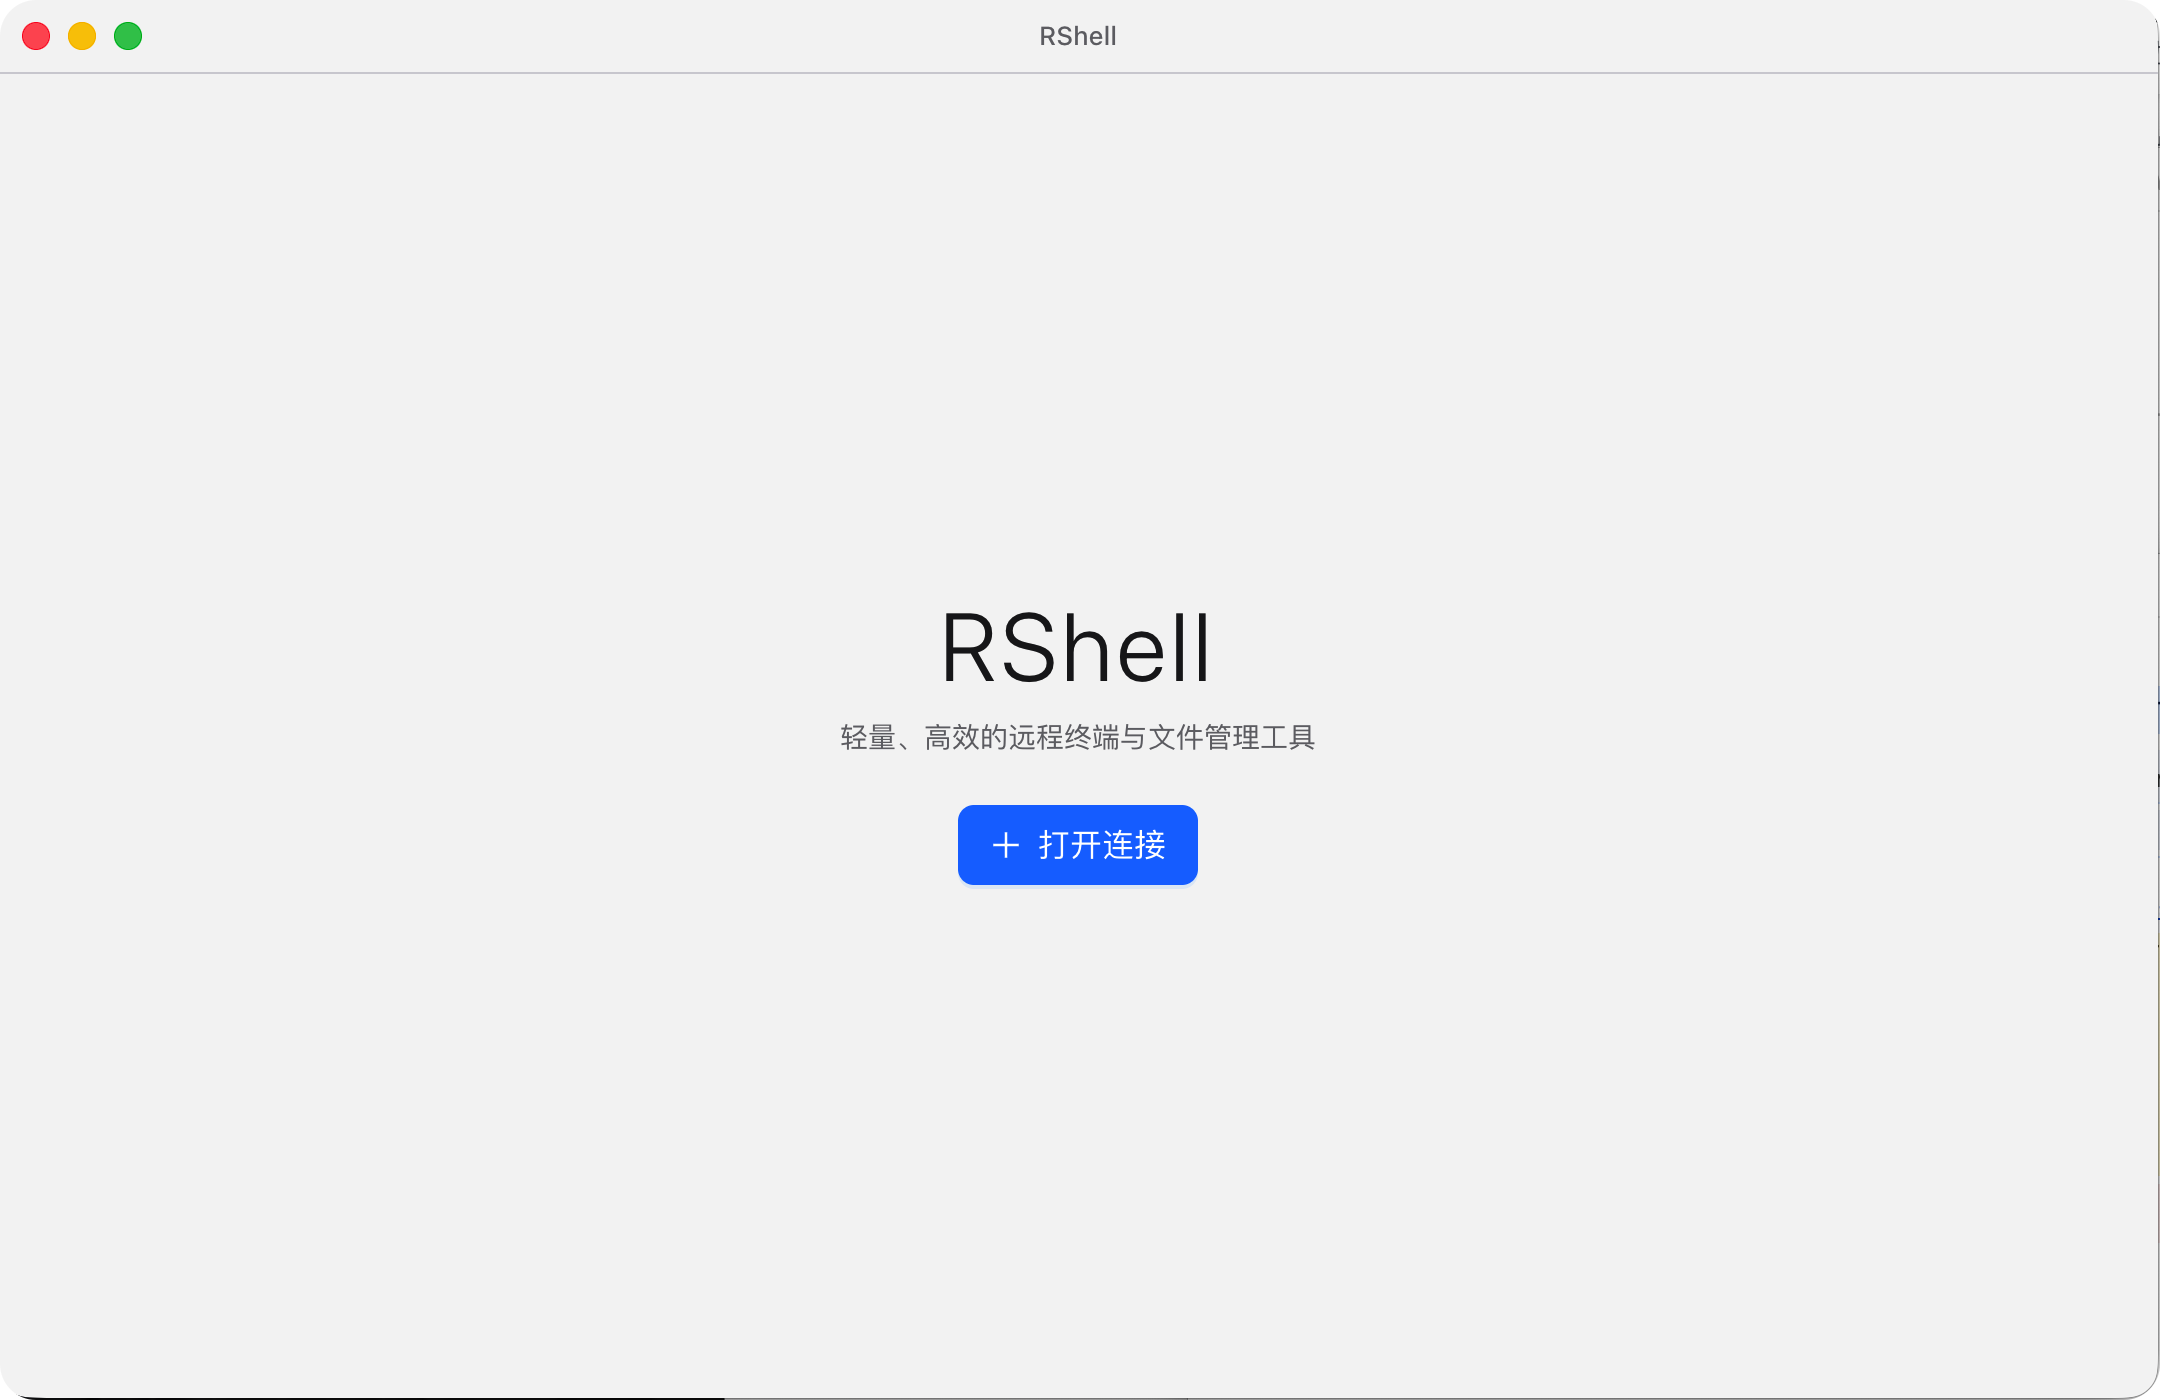
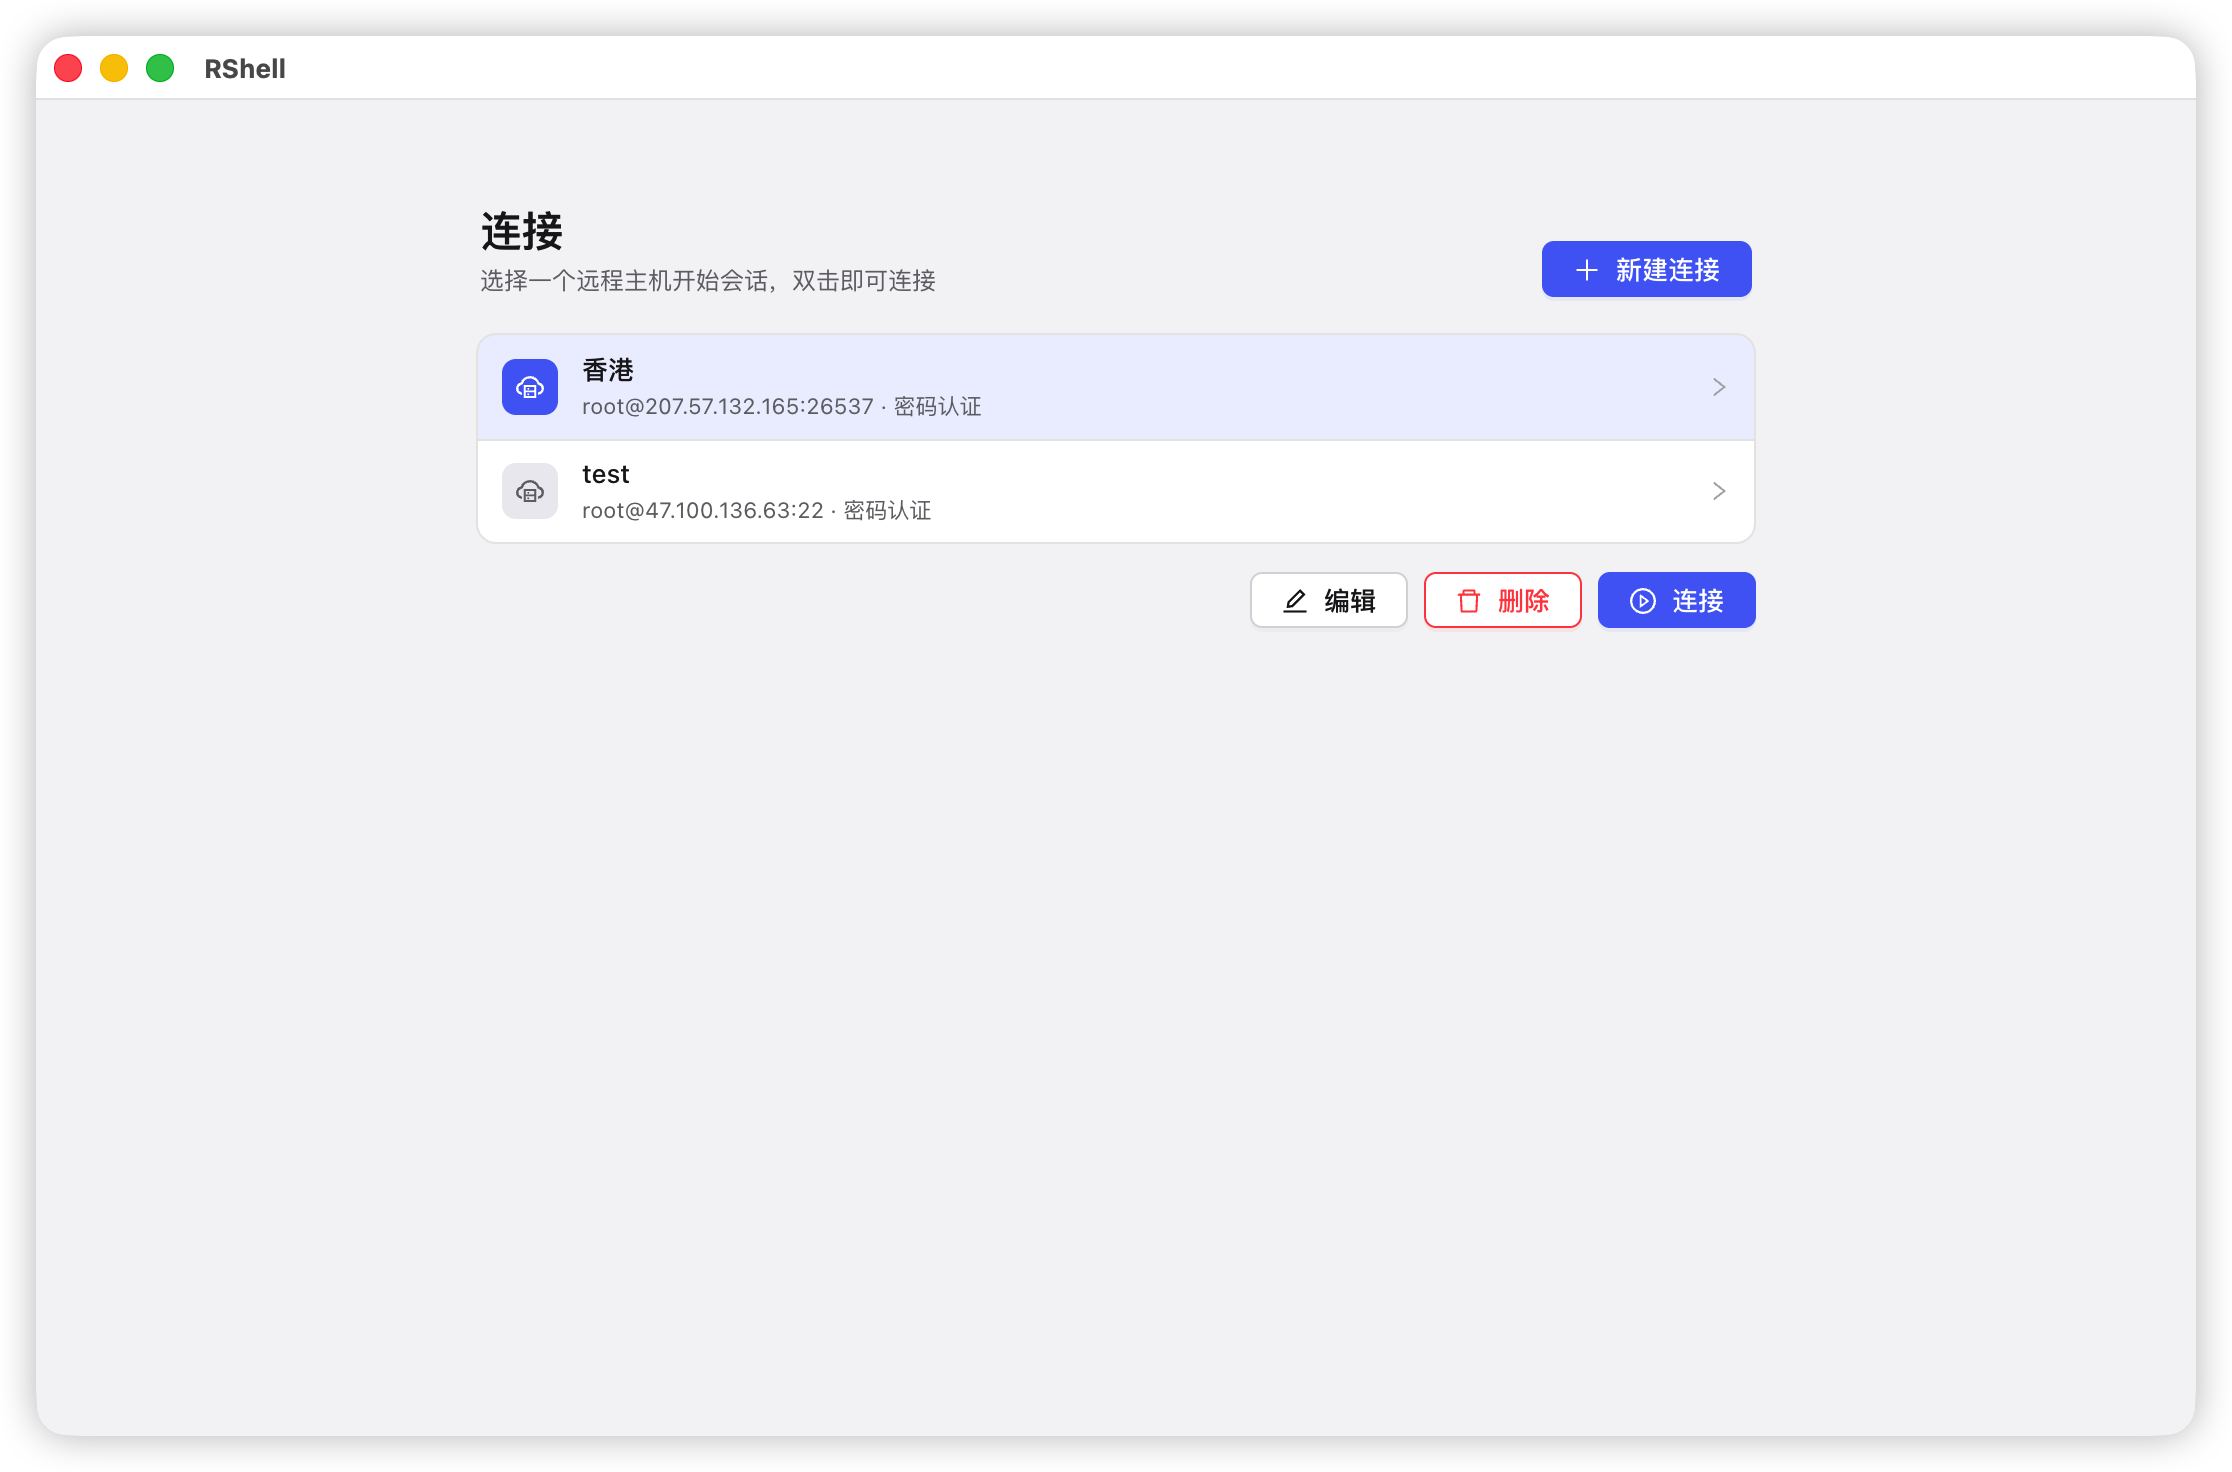
doc: 增加 UI 截图

diff --git a/README.md b/README.md
@@ -2,6 +2,20 @@
 
 RShell 是一个小型桌面 SSH 客户端，聚焦远程终端、SFTP 文件管理和文本文件编辑。
 
+## 界面
+
+连接管理（浅色主题）：
+
+![连接管理](docs/images/image.png)
+
+会话工作区——SFTP 文件树、终端和远端状态监控（浅色主题）：
+
+![会话工作区](docs/images/image1.png)
+
+应用设置（深色主题，主题支持跟随系统）：
+
+![应用设置](docs/images/image2.png)
+
 ## 功能
 
 - 多 SSH 会话与终端标签页
@@ -10,7 +24,7 @@ RShell 是一个小型桌面 SSH 客户端，聚焦远程终端、SFTP 文件管
 - 文件上传、下载、进度显示和取消传输
 - 5 MB 以内 UTF-8 文本文件编辑与常见语言高亮
 - Linux 远端 CPU、内存和网络状态监控
-- 浅色、深色主题和终端字号设置
+- 浅色、深色、跟随系统主题和终端字号设置
 
 ## 支持范围
 
